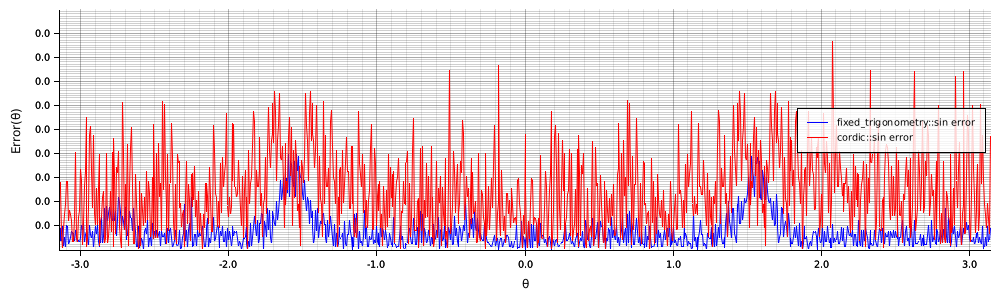
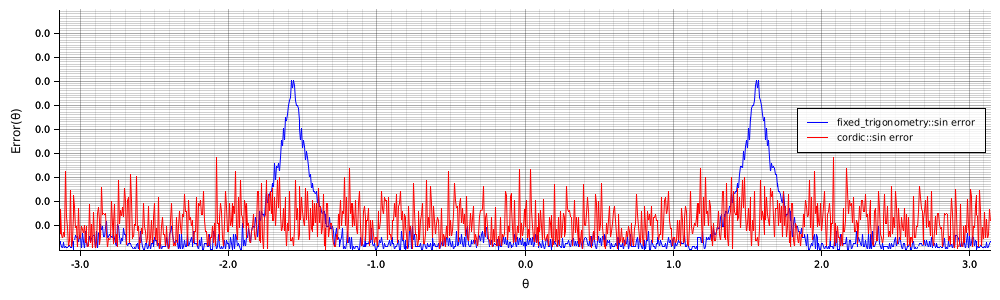
Added atan test. Replaced the atan2 implementation with with atan2_fast

Changed region(s): [[0.062, 0.27, 0.992, 0.84], [0.93, 0.33, 0.961, 0.36]]

diff --git a/src/atan.rs b/src/atan.rs
@@ -1,66 +1,3 @@
-/// Calculate atan(y/x) using a polynomial approximation of `atan(y/x)`.
-/// 
-/// Utilizes the following polynomial to estimate the angle θ \[radians\].
-/// 
-/// `atan(y,x) = ((y,x)+0.372003(y,x)^3) / (1+0.703384(y/x)^2 + 0.043562(y/x)^4)`
-/// 
-/// The method is accurat within 0.003 degrees when |θ|<=π/4.
-/// 
-/// \[1\] R. G. Lyons, Streamlining Digital Signal Processing, Second Edition, IEEE Press, 2012.
-/// 
-/// ## Arguments 
-///
-/// * `y` - Is the argument along the y or imaginary axis.
-/// * `x` - Is the argument along the x or real axis.
-/// 
-/// ## Example
-/// 
-/// ```
-/// use fixed_trigonometry::*;
-/// use fixed::{types::extra::U28, FixedI32};
-/// let arg = atan::atan2( FixedI32::<U28>::from_num(0.6), FixedI32::<U28>::from_num(0.4) );
-/// assert_eq!{ arg.to_num::<f32>(), 0.983006064 };
-/// ``` 
-pub fn atan2<T>( y: T, x: T ) -> T
-    where T: fixed::traits::FixedSigned
-{
-    let division: T = y/x;
-    return atan(division);
-}
-
-/// Calculate atan(x) using a polynomial approximation of `atan(x)`.
-/// 
-/// Utilizes the following polynomial to estimate the angle θ \[radians\].
-/// 
-/// `atan(x) = (x+0.372003*x^3) / (1+0.703384*x^2 + 0.043562*x^4)`
-/// 
-/// The method is accurat within 0.003 degrees when |θ|<=π/4.
-/// 
-/// \[1\] R. G. Lyons, Streamlining Digital Signal Processing, Second Edition, IEEE Press, 2012.
-/// 
-/// ## Arguments 
-///
-/// * `x` - Is the function argument.
-/// 
-/// ## Example
-/// 
-/// ```
-/// use fixed_trigonometry::*;
-/// use fixed::{types::extra::U28, FixedI32};
-/// 
-/// let arg = atan::atan( FixedI32::<U28>::from_num(0.6)/FixedI32::<U28>::from_num(0.4) );
-/// assert_eq!{ arg.to_num::<f32>(), 0.983006064 };
-/// ``` 
-pub fn atan<T>( x: T ) -> T
-    where T: fixed::traits::FixedSigned
-{
-    return ( (x) + T::from_num(0.372003f32)*super::powi(x,3) ) 
-            / (T::from_num(1) + T::from_num(0.703384f32)*super::powi(x,2) + T::from_num(0.043562f32)*super::powi(x,4) );
-}
-
-
-
-
 /// Atan polynomial for below function.
 /// 
 /// \[1\] R. G. Lyons, Streamlining Digital Signal Processing, Second Edition, IEEE Press, 2012.
@@ -99,6 +36,7 @@ fn atan_poly_2<T>( y: T, x: T ) -> T
     return phi;
 }
 
+
 /// Calculate atan2(y,x) using a selection of polynomial approximations, one for each octant in the unit circle.
 /// 
 /// The method is accurat within 0.028 degrees.
@@ -130,8 +68,8 @@ fn atan_poly_2<T>( y: T, x: T ) -> T
 /// 
 /// The figure below shows the comparison between the various implementations and the `std::f32::atan` implementation.
 /// 
-/// ![Alt version](https://github.com/ErikBuer/Fixed-Trigonometry/blob/main/figures/atan_comparisons.png?raw=true)
-pub fn atan2_fast<T>( y: T, x: T ) -> T
+/// ![Alt version](https://github.com/ErikBuer/Fixed-Trigonometry/blob/main/figures/atan2_comparisons.png?raw=true)
+pub fn atan2<T>( y: T, x: T ) -> T
     where T: fixed::traits::FixedSigned
 {
     // Precompute
@@ -219,4 +157,39 @@ pub fn atan2_fast<T>( y: T, x: T ) -> T
             }
         }
     }
+}
+
+/// Calculate atan(x) using a polynomial approximation of `atan(x)`.
+/// 
+/// Utilizes the following polynomial to estimate the angle θ \[radians\].
+/// 
+/// `atan(x) = (x+0.372003*x^3) / (1+0.703384*x^2 + 0.043562*x^4)`
+/// 
+/// The method is accurat within 0.003 degrees when |θ|<=π/4.
+/// 
+/// \[1\] R. G. Lyons, Streamlining Digital Signal Processing, Second Edition, IEEE Press, 2012.
+/// 
+/// ## Arguments 
+///
+/// * `x` - Is the function argument.
+/// 
+/// ## Example
+/// 
+/// ```
+/// use fixed_trigonometry::*;
+/// use fixed::{types::extra::U28, FixedI32};
+/// 
+/// let arg = atan::atan( FixedI32::<U28>::from_num(0.6)/FixedI32::<U28>::from_num(0.4) );
+/// assert_eq!{ arg.to_num::<f32>(), 0.983006064 };
+/// ``` 
+/// ## Comparisons
+/// 
+/// The figure below shows the comparison between the various implementations and the `std::f32::atan` implementation.
+/// 
+/// ![Alt version](https://github.com/ErikBuer/Fixed-Trigonometry/blob/main/figures/atan_comparisons.png?raw=true)
+/// 
+pub fn atan<T>( x: T ) -> T
+    where T: fixed::traits::FixedSigned
+{
+    return atan2(x,T::from_num(1));
 }

diff --git a/tests/atan_comparison.rs b/tests/atan_comparison.rs
@@ -3,7 +3,7 @@ use plotters::prelude::*;
 
 /// Plots comparison between various atan implementations.
 #[test]
-fn atan_comparison() -> Result<(), Box<dyn std::error::Error>> 
+fn atan2_fast_comparison() -> Result<(), Box<dyn std::error::Error>> 
 {
     use fixed_trigonometry::*;
 
@@ -11,7 +11,7 @@ fn atan_comparison() -> Result<(), Box<dyn std::error::Error>>
     use fixed::types::extra::U20 as U;
     use std::f32::consts::PI as PI;
 
-    let root = BitMapBackend::new("figures/atan_comparisons.png", (1000, 500)).into_drawing_area();
+    let root = BitMapBackend::new("figures/atan2_comparisons.png", (1000, 500)).into_drawing_area();
     root.fill(&WHITE)?;
     let mut chart = ChartBuilder::on(&root)
         //.caption("title", ("sans-serif", 25).into_font())
@@ -32,13 +32,13 @@ fn atan_comparison() -> Result<(), Box<dyn std::error::Error>>
     chart.configure_mesh().draw()?;
 
     let atan2_fast_series = LineSeries::new(
-        (-500..=500).map(|x| x as f32 *PI / 500.0).map(|x| (x, atan::atan2_fast(F::<U>::from_num(x.sin()), F::<U>::from_num(x.cos()) ).to_num::<f32>() )),
+        (-500..=500).map(|x| x as f32 *PI / 500.0).map(|x| (x, atan::atan2(F::<U>::from_num(x.sin()), F::<U>::from_num(x.cos()) ).to_num::<f32>() )),
         &RED);
 
     // Draws a sinle line
     chart
         .draw_series( atan2_fast_series )?
-        .label("atan::atan2_fast")
+        .label("atan::atan2")
         .legend(|(x, y)| PathElement::new(vec![(x, y), (x + 20, y)], &RED));
 
     let std_atan_series = LineSeries::new(
@@ -49,6 +49,64 @@ fn atan_comparison() -> Result<(), Box<dyn std::error::Error>>
     chart
         .draw_series( std_atan_series )?
         .label("f32::atan2")
+        .legend(|(x, y)| PathElement::new(vec![(x, y), (x + 20, y)], &BLUE));
+        
+    chart
+        .configure_series_labels()
+        .background_style(&WHITE.mix(0.8))
+        .border_style(&BLACK)
+        .draw()?;
+
+    Ok(())
+}
+
+#[test]
+fn atan_comparison() -> Result<(), Box<dyn std::error::Error>> 
+{
+    use fixed_trigonometry::*;
+
+    use fixed::FixedI32 as F;
+    use fixed::types::extra::U20 as U;
+    use std::f32::consts::PI as PI;
+
+    let root = BitMapBackend::new("figures/atan_comparisons.png", (1000, 500)).into_drawing_area();
+    root.fill(&WHITE)?;
+    let mut chart = ChartBuilder::on(&root)
+        //.caption("title", ("sans-serif", 25).into_font())
+        .margin(10)
+        .x_label_area_size(40)
+        .y_label_area_size(50)
+        .build_cartesian_2d( -10f32..10f32, -PI/2.0..PI/2.0)?;
+
+    chart
+        .configure_mesh()
+        .disable_x_mesh()
+        .bold_line_style(&WHITE.mix(0.3))
+        .y_desc("atan2(θ)")
+        .x_desc("θ")
+        .axis_desc_style(("sans-serif", 15))
+        .draw()?;
+
+    chart.configure_mesh().draw()?;
+
+    let atan2_fast_series = LineSeries::new(
+        (-500..=500).map(|x| x as f32 *10.0 / 500.0).map(|x| (x, atan::atan( F::<U>::from_num(x) ).to_num::<f32>() )),
+        &RED);
+
+    // Draws a sinle line
+    chart
+        .draw_series( atan2_fast_series )?
+        .label("atan::atan")
+        .legend(|(x, y)| PathElement::new(vec![(x, y), (x + 20, y)], &RED));
+
+    let std_atan_series = LineSeries::new(
+        (-500..=500).map(|x| x as f32 *10.0 / 500.0).map(|x| (x, f32::atan(x) )),
+        &BLUE);
+
+    // Draws a sinle line
+    chart
+        .draw_series( std_atan_series )?
+        .label("f32::atan")
         .legend(|(x, y)| PathElement::new(vec![(x, y), (x + 20, y)], &BLUE));
         
     chart

diff --git a/tests/cos_comparison.rs b/tests/cos_comparison.rs
@@ -68,3 +68,62 @@ fn compare_polynomial_sine() -> Result<(), Box<dyn std::error::Error>>
 
     Ok(())
 }
+
+
+/// Plots comparison between Errors of the polynomial and cordic sin implementation.
+#[test]
+fn poly_vs_cordic_error() -> Result<(), Box<dyn std::error::Error>> 
+{
+    use cordic;
+    use fixed_trigonometry::*;
+
+    use fixed::FixedI32 as F;
+    use fixed::types::extra::U22 as U;
+    use std::f32::consts::PI as PI;
+
+    let root = BitMapBackend::new("figures/cordic_poly_cos_error_comparison.png", (1000, 300)).into_drawing_area();
+    root.fill(&WHITE)?;
+    let mut chart = ChartBuilder::on(&root)
+        //.caption("title", ("sans-serif", 25).into_font())
+        .margin(10)
+        .x_label_area_size(40)
+        .y_label_area_size(50)
+        .build_cartesian_2d( -PI..PI, 0f32..5e-6f32 )?;
+
+    chart
+        .configure_mesh()
+        .disable_x_mesh()
+        .bold_line_style(&WHITE.mix(0.3))
+        .y_desc("Error(θ)")
+        .x_desc("θ")
+        .axis_desc_style(("sans-serif", 15))
+        .draw()?;
+
+    chart.configure_mesh().draw()?;
+
+    // Draws a sinle line
+    chart
+        .draw_series(LineSeries::new(
+            (-500..=500).map(|x| x as f32 *PI / 500.0).map(|x| (x, f32::abs(x.cos()-cos( F::<U>::from_num(x) ).to_num::<f32>()) )),
+            &BLUE,
+        ))?
+        .label("fixed_trigonometry::cos error")
+        .legend(|(x, y)| PathElement::new(vec![(x, y), (x + 20, y)], &BLUE));
+    
+    // Draws a sinle line
+    chart
+        .draw_series(LineSeries::new(
+            (-500..=500).map(|x| x as f32 *PI / 500.0).map(|x| (x, f32::abs(x.cos()-cordic::cos( F::<U>::from_num(x) ).to_num::<f32>()) )),
+            &RED,
+        ))?
+        .label("cordic::cos error")
+        .legend(|(x, y)| PathElement::new(vec![(x, y), (x + 20, y)], &RED));
+
+    chart
+        .configure_series_labels()
+        .background_style(&WHITE.mix(0.8))
+        .border_style(&BLACK)
+        .draw()?;
+
+    Ok(())
+}

diff --git a/src/lib.rs b/src/lib.rs
@@ -125,9 +125,12 @@ pub fn sign<T>( x:T ) -> T
 /// 
 /// The error of the method is compared to the sine implementation in the cordic crate.
 /// 
+/// The comparison is done for U22 unsigned fixed point.
+/// 
 /// The figure below is missing numbers on the y axis, but it is plotted on a linear scale, showing the relative error between the two methods.
 /// 
 /// ![Alt version](https://github.com/ErikBuer/Fixed-Trigonometry/blob/main/figures/cordic_poly_sine_error_comparison.png?raw=true)
+/// 
 pub fn sin<T>( x: T ) -> T
     where T: fixed::traits::FixedSigned
 {
@@ -186,6 +189,14 @@ pub fn sin<T>( x: T ) -> T
 /// The Difference between the two is plotted as the error.
 /// 
 /// ![Alt version](https://github.com/ErikBuer/Fixed-Trigonometry/blob/main/figures/polynomial_cosine_comparison.png?raw=true)
+/// 
+/// The error of the method is compared to the sine implementation in the cordic crate.
+/// 
+/// The comparison is done for U22 unsigned fixed point.
+/// 
+/// The figure below is missing numbers on the y axis, but it is plotted on a linear scale, showing the relative error between the two methods.
+/// 
+/// ![Alt version](https://github.com/ErikBuer/Fixed-Trigonometry/blob/main/figures/cordic_poly_cos_error_comparison.png?raw=true)
 /// 
 pub fn cos<T>( x: T ) -> T
     where T: fixed::traits::FixedSigned

diff --git a/tests/sin_comparison.rs b/tests/sin_comparison.rs
@@ -78,7 +78,7 @@ fn poly_vs_cordic_error() -> Result<(), Box<dyn std::error::Error>>
     use fixed_trigonometry::*;
 
     use fixed::FixedI32 as F;
-    use fixed::types::extra::U20 as U;
+    use fixed::types::extra::U22 as U;
     use std::f32::consts::PI as PI;
 
     let root = BitMapBackend::new("figures/cordic_poly_sine_error_comparison.png", (1000, 300)).into_drawing_area();
@@ -88,7 +88,7 @@ fn poly_vs_cordic_error() -> Result<(), Box<dyn std::error::Error>>
         .margin(10)
         .x_label_area_size(40)
         .y_label_area_size(50)
-        .build_cartesian_2d( -PI..PI, 0f32..1e-5f32 )?;
+        .build_cartesian_2d( -PI..PI, 0f32..5e-6f32 )?;
 
     chart
         .configure_mesh()

diff --git a/src/complex.rs b/src/complex.rs
@@ -15,7 +15,7 @@ pub fn to_polar<T>( x: Complex<T> ) -> Polar<T>
 {
     let c_polar = Polar::<T>{
         r:     abs(x),
-        theta: atan::atan2_fast( x.im, x.re )
+        theta: atan::atan2( x.im, x.re )
     };
     return c_polar;
 }

diff --git a/README.md b/README.md
@@ -14,11 +14,9 @@ Release notes are found under RELEASES.md.
 
 The library currently implements:
 
-- `fft` calculation, for complex fixed-point vectors.
+- `fft`/`ifft` calculation, for complex fixed-point vectors.
 - `sin` and `cos` using low order polynomails, for real fixed-point numbers.
 - `atan` using multiple numerical methods.
-- `sqrt` using the Nonlinear IIR Filter (NIIRF) method \[1\].
+- `sqrt` using the Nonlinear IIR Filter (NIIRF) method.
 - `powi` and `complex::powi`.
 - no-std utilities for complex numbers.
-
-\[1\] N.Mikami et al., A new DSP-oriented algorithm for calculation of square root using a non-linear digital filter, IEEE Trans. on Signal Processing, July 1992, pp. 1663-1669.
